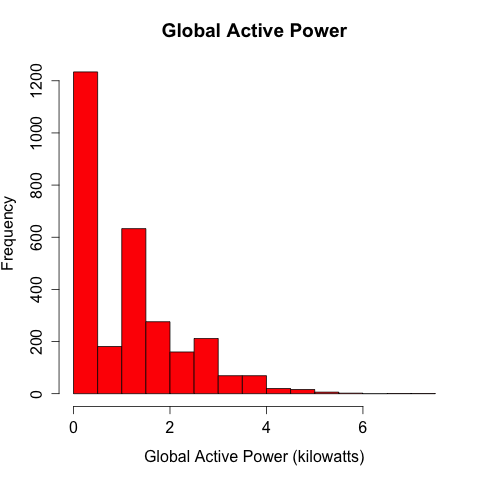
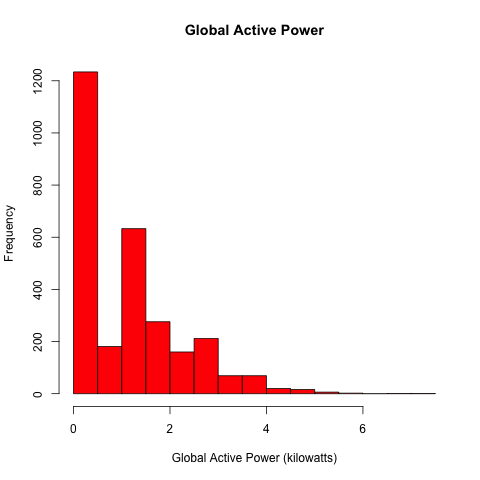
New README. Minor source changes and replots.

diff --git a/README.md b/README.md
@@ -1,114 +1,20 @@
-## Introduction
+## Instructions
 
-This assignment uses data from
-the <a href="http://archive.ics.uci.edu/ml/">UC Irvine Machine
-Learning Repository</a>, a popular repository for machine learning
-datasets. In particular, we will be using the "Individual household
-electric power consumption Data Set" which I have made available on
-the course web site:
-
-
-* <b>Dataset</b>: <a href="https://d396qusza40orc.cloudfront.net/exdata%2Fdata%2Fhousehold_power_consumption.zip">Electric power consumption</a> [20Mb]
-
-* <b>Description</b>: Measurements of electric power consumption in
-one household with a one-minute sampling rate over a period of almost
-4 years. Different electrical quantities and some sub-metering values
-are available.
-
-
-The following descriptions of the 9 variables in the dataset are taken
-from
-the <a href="https://archive.ics.uci.edu/ml/datasets/Individual+household+electric+power+consumption">UCI
-web site</a>:
-
+The R-code files all have the same stucture. There's a main function `loadnplot(directory, device)` which calls two functions:
 <ol>
-<li><b>Date</b>: Date in format dd/mm/yyyy </li>
-<li><b>Time</b>: time in format hh:mm:ss </li>
-<li><b>Global_active_power</b>: household global minute-averaged active power (in kilowatt) </li>
-<li><b>Global_reactive_power</b>: household global minute-averaged reactive power (in kilowatt) </li>
-<li><b>Voltage</b>: minute-averaged voltage (in volt) </li>
-<li><b>Global_intensity</b>: household global minute-averaged current intensity (in ampere) </li>
-<li><b>Sub_metering_1</b>: energy sub-metering No. 1 (in watt-hour of active energy). It corresponds to the kitchen, containing mainly a dishwasher, an oven and a microwave (hot plates are not electric but gas powered). </li>
-<li><b>Sub_metering_2</b>: energy sub-metering No. 2 (in watt-hour of active energy). It corresponds to the laundry room, containing a washing-machine, a tumble-drier, a refrigerator and a light. </li>
-<li><b>Sub_metering_3</b>: energy sub-metering No. 3 (in watt-hour of active energy). It corresponds to an electric water-heater and an air-conditioner.</li>
+<li>`load_data(directory)`</li>
+<li>`plot_data(data, device)`</li>
 </ol>
+On completion `loadnplot()` returns the loaded data in a dataframe.  By preserving the returned dataframe, only `plot_data()` 
+needs to be called for subsequent (re-)plots.
 
-## Loading the data
-
-
-
-
-
-When loading the dataset into R, please consider the following:
-
-* The dataset has 2,075,259 rows and 9 columns. First
-calculate a rough estimate of how much memory the dataset will require
-in memory before reading into R. Make sure your computer has enough
-memory (most modern computers should be fine).
-
-* We will only be using data from the dates 2007-02-01 and
-2007-02-02. One alternative is to read the data from just those dates
-rather than reading in the entire dataset and subsetting to those
-dates.
-
-* You may find it useful to convert the Date and Time variables to
-Date/Time classes in R using the `strptime()` and `as.Date()`
-functions.
-
-* Note that in this dataset missing values are coded as `?`.
+When `loadnplot()` is called without device specification it plots to the
+screen. To plot to a "png"-file, use the parameter `dev="png"`, so the 
+complete call looks like: `loadnplot(directory, dev="png")` 
 
 
-## Making Plots
 
-Our overall goal here is simply to examine how household energy usage
-varies over a 2-day period in February, 2007. Your task is to
-reconstruct the following plots below, all of which were constructed
-using the base plotting system.
+## Output
 
-First you will need to fork and clone the following GitHub repository:
-[https://github.com/rdpeng/ExData_Plotting1](https://github.com/rdpeng/ExData_Plotting1)
-
-
-For each plot you should
-
-* Construct the plot and save it to a PNG file with a width of 480
-pixels and a height of 480 pixels.
-
-* Name each of the plot files as `plot1.png`, `plot2.png`, etc.
-
-* Create a separate R code file (`plot1.R`, `plot2.R`, etc.) that
-constructs the corresponding plot, i.e. code in `plot1.R` constructs
-the `plot1.png` plot. Your code file **should include code for reading
-the data** so that the plot can be fully reproduced. You should also
-include the code that creates the PNG file.
-
-* Add the PNG file and R code file to your git repository
-
-When you are finished with the assignment, push your git repository to
-GitHub so that the GitHub version of your repository is up to
-date. There should be four PNG files and four R code files.
-
-
-The four plots that you will need to construct are shown below. 
-
-
-### Plot 1
-
-
-![plot of chunk unnamed-chunk-2](figure/unnamed-chunk-2.png) 
-
-
-### Plot 2
-
-![plot of chunk unnamed-chunk-3](figure/unnamed-chunk-3.png) 
-
-
-### Plot 3
-
-![plot of chunk unnamed-chunk-4](figure/unnamed-chunk-4.png) 
-
-
-### Plot 4
-
-![plot of chunk unnamed-chunk-5](figure/unnamed-chunk-5.png) 
-
+The PNG-files backgrounds are **transparent**, *similar* to the *four example plots*.
+They have a width of 480 pixels and a height of 480 pixels as per instructions.

diff --git a/README.assignment.md b/README.assignment.md
@@ -1,0 +1,114 @@
+## Introduction
+
+This assignment uses data from
+the <a href="http://archive.ics.uci.edu/ml/">UC Irvine Machine
+Learning Repository</a>, a popular repository for machine learning
+datasets. In particular, we will be using the "Individual household
+electric power consumption Data Set" which I have made available on
+the course web site:
+
+
+* <b>Dataset</b>: <a href="https://d396qusza40orc.cloudfront.net/exdata%2Fdata%2Fhousehold_power_consumption.zip">Electric power consumption</a> [20Mb]
+
+* <b>Description</b>: Measurements of electric power consumption in
+one household with a one-minute sampling rate over a period of almost
+4 years. Different electrical quantities and some sub-metering values
+are available.
+
+
+The following descriptions of the 9 variables in the dataset are taken
+from
+the <a href="https://archive.ics.uci.edu/ml/datasets/Individual+household+electric+power+consumption">UCI
+web site</a>:
+
+<ol>
+<li><b>Date</b>: Date in format dd/mm/yyyy </li>
+<li><b>Time</b>: time in format hh:mm:ss </li>
+<li><b>Global_active_power</b>: household global minute-averaged active power (in kilowatt) </li>
+<li><b>Global_reactive_power</b>: household global minute-averaged reactive power (in kilowatt) </li>
+<li><b>Voltage</b>: minute-averaged voltage (in volt) </li>
+<li><b>Global_intensity</b>: household global minute-averaged current intensity (in ampere) </li>
+<li><b>Sub_metering_1</b>: energy sub-metering No. 1 (in watt-hour of active energy). It corresponds to the kitchen, containing mainly a dishwasher, an oven and a microwave (hot plates are not electric but gas powered). </li>
+<li><b>Sub_metering_2</b>: energy sub-metering No. 2 (in watt-hour of active energy). It corresponds to the laundry room, containing a washing-machine, a tumble-drier, a refrigerator and a light. </li>
+<li><b>Sub_metering_3</b>: energy sub-metering No. 3 (in watt-hour of active energy). It corresponds to an electric water-heater and an air-conditioner.</li>
+</ol>
+
+## Loading the data
+
+
+
+
+
+When loading the dataset into R, please consider the following:
+
+* The dataset has 2,075,259 rows and 9 columns. First
+calculate a rough estimate of how much memory the dataset will require
+in memory before reading into R. Make sure your computer has enough
+memory (most modern computers should be fine).
+
+* We will only be using data from the dates 2007-02-01 and
+2007-02-02. One alternative is to read the data from just those dates
+rather than reading in the entire dataset and subsetting to those
+dates.
+
+* You may find it useful to convert the Date and Time variables to
+Date/Time classes in R using the `strptime()` and `as.Date()`
+functions.
+
+* Note that in this dataset missing values are coded as `?`.
+
+
+## Making Plots
+
+Our overall goal here is simply to examine how household energy usage
+varies over a 2-day period in February, 2007. Your task is to
+reconstruct the following plots below, all of which were constructed
+using the base plotting system.
+
+First you will need to fork and clone the following GitHub repository:
+[https://github.com/rdpeng/ExData_Plotting1](https://github.com/rdpeng/ExData_Plotting1)
+
+
+For each plot you should
+
+* Construct the plot and save it to a PNG file with a width of 480
+pixels and a height of 480 pixels.
+
+* Name each of the plot files as `plot1.png`, `plot2.png`, etc.
+
+* Create a separate R code file (`plot1.R`, `plot2.R`, etc.) that
+constructs the corresponding plot, i.e. code in `plot1.R` constructs
+the `plot1.png` plot. Your code file **should include code for reading
+the data** so that the plot can be fully reproduced. You should also
+include the code that creates the PNG file.
+
+* Add the PNG file and R code file to your git repository
+
+When you are finished with the assignment, push your git repository to
+GitHub so that the GitHub version of your repository is up to
+date. There should be four PNG files and four R code files.
+
+
+The four plots that you will need to construct are shown below. 
+
+
+### Plot 1
+
+
+![plot of chunk unnamed-chunk-2](figure/unnamed-chunk-2.png) 
+
+
+### Plot 2
+
+![plot of chunk unnamed-chunk-3](figure/unnamed-chunk-3.png) 
+
+
+### Plot 3
+
+![plot of chunk unnamed-chunk-4](figure/unnamed-chunk-4.png) 
+
+
+### Plot 4
+
+![plot of chunk unnamed-chunk-5](figure/unnamed-chunk-5.png) 
+
